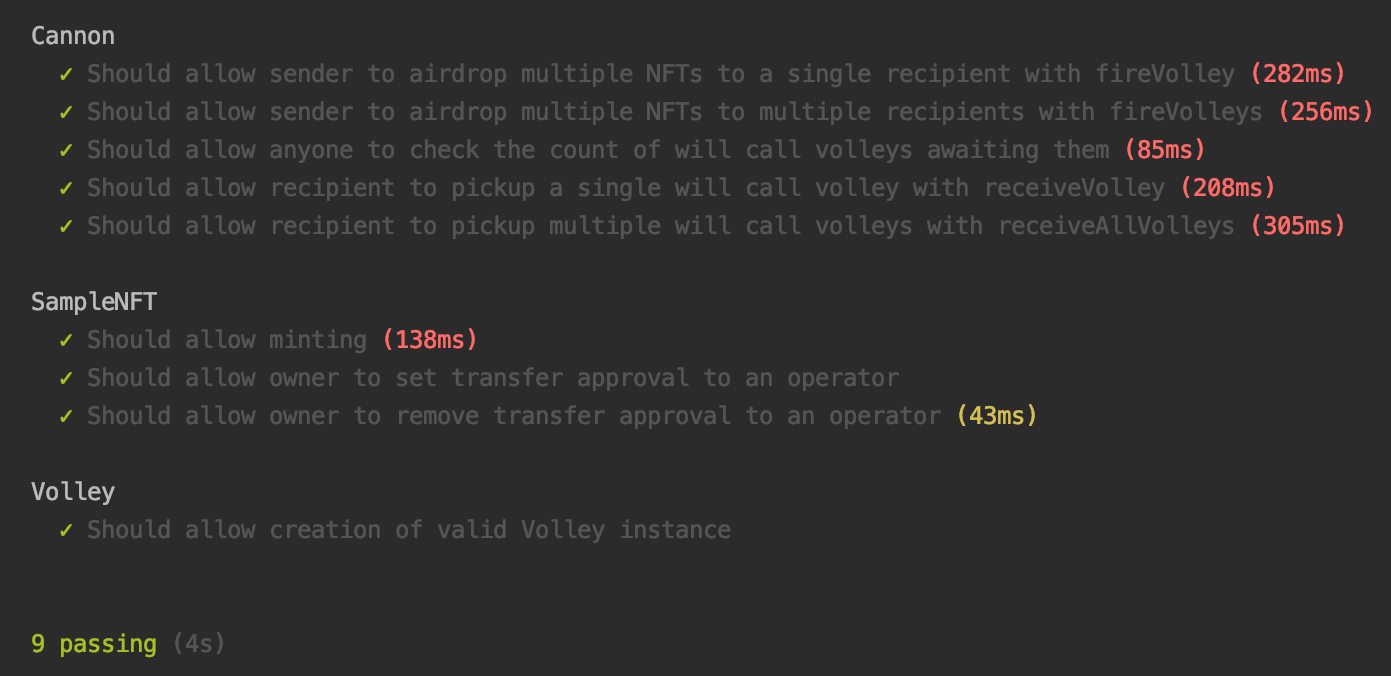
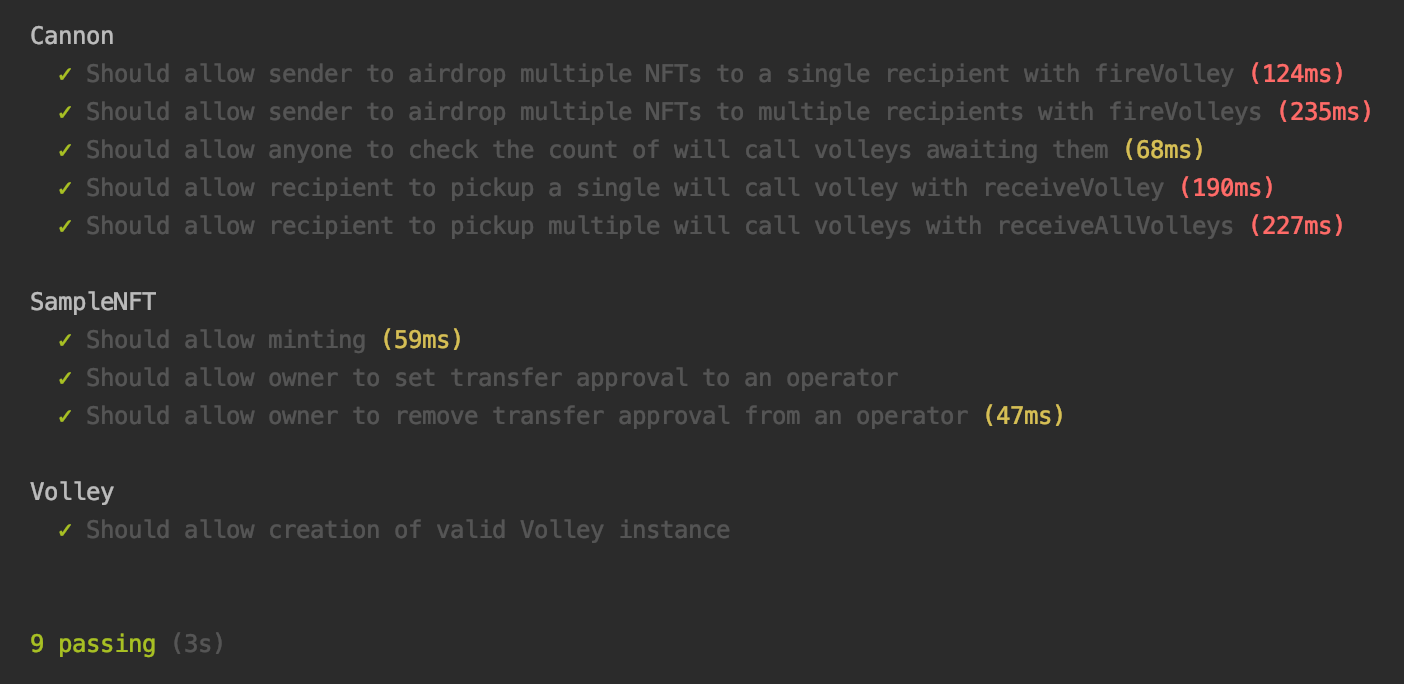
Updated unit test output

diff --git a/test/SampleNFTTest.js b/test/SampleNFTTest.js
@@ -40,7 +40,7 @@ describe("SampleNFT", function() {
     });
 
 
-    it("Should allow owner to remove transfer approval to an operator", async function() {
+    it("Should allow owner to remove transfer approval from an operator", async function() {
 
         // Set approval for operator to manage sender's NFTs
         await snifty.setApprovalForAll(operator, false);
